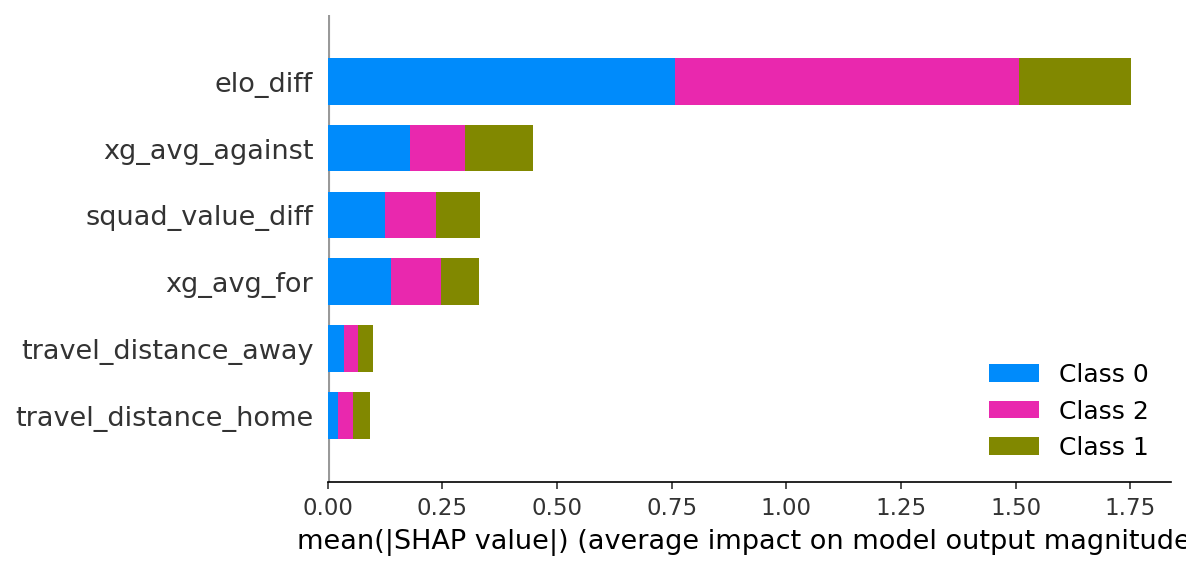
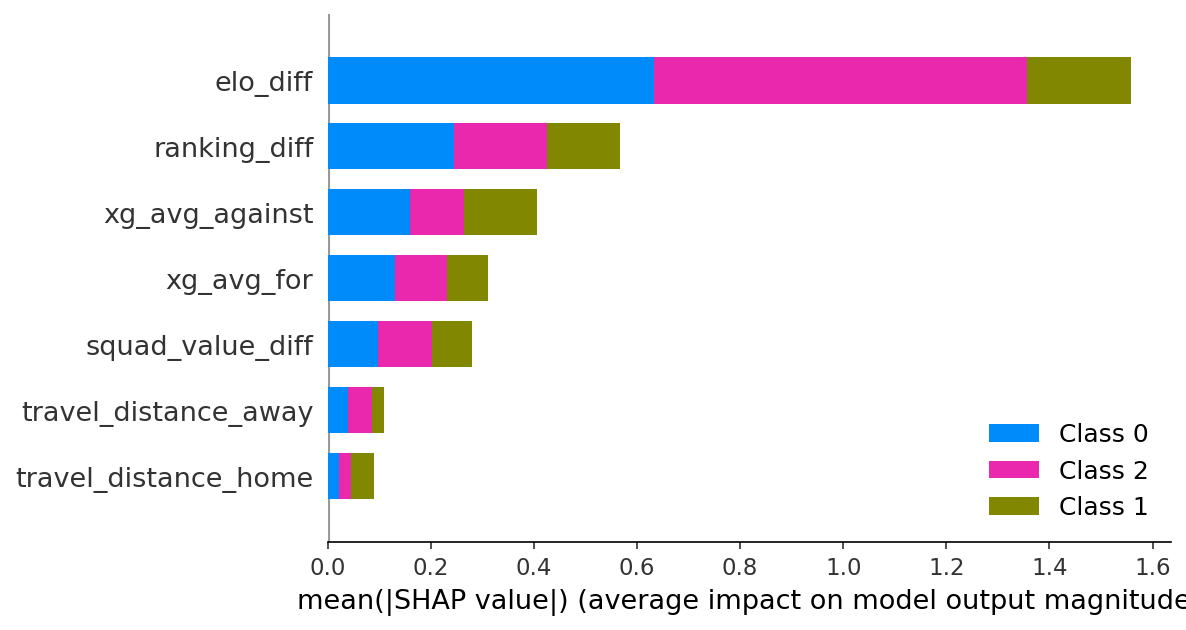
feat: new ranking_diff feature and datasets changes

Changed region(s): [[0.0, 0.0895, 0.9671, 0.8053], [0.2496, 0.6263, 1.0, 0.9842]]

diff --git a/repository/src/models/evaluate.py b/repository/src/models/evaluate.py
@@ -22,6 +22,7 @@ FEATURE_COLS = [
     "xg_avg_against",
     "travel_distance_home",
     "travel_distance_away",
+    "ranking_diff",
 ]
 
 CLASS_NAMES = {0: "Away Win", 1: "Draw", 2: "Home Win"}
@@ -130,21 +131,47 @@ def shap_analysis(model, X_train: np.ndarray, feature_names: list[str] | None = 
 
 
 def validate_wc2022(
-    matches_df: pd.DataFrame,
+    wc_matches_df: pd.DataFrame | None,
     features_df: pd.DataFrame,
     model,
 ) -> pd.DataFrame:
     """
-    Validación histórica: evalúa el modelo sobre los partidos del Mundial 2022
-    usando solo datos de entrenamiento previos a 2022.
+    Validación histórica: evalúa el modelo sobre los partidos del Mundial 2022.
 
-    Devuelve DataFrame con [home_team, away_team, pred_class, true_class, correct].
+    Si wc_matches_df no es None: hace inner join exacto (date, home_team, away_team)
+    para aislar los partidos reales del WC 2022 dentro de features_df, descartando
+    amistosos, clasificatorias y otras competiciones del mismo año.
+
+    Uso recomendado en __main__:
+        all_matches = load_international_results()
+        wc22_actual = all_matches[
+            (all_matches["tournament"] == "FIFA World Cup")
+            & (all_matches["date"].astype(str).str.startswith("2022"))
+        ]
+        validate_wc2022(wc22_actual, df, model)
+
+    Si wc_matches_df es None: fallback a filtrar todos los partidos del año 2022.
+
+    Devuelve DataFrame con [date, home_team, away_team, pred_class, true_class,
+    correct, confidence].
     """
-    # Filtra partidos de 2022 que sean del Mundial (o clasificatorias recientes).
-    # features_df no contiene columna tournament, así que usamos el año como proxy;
-    # la validación histórica toma todos los partidos del año 2022 del dataset filtrado.
-    date_mask = features_df["date"].astype(str).str.startswith("2022")
-    wc22 = features_df[date_mask].copy()
+    if wc_matches_df is not None and not wc_matches_df.empty:
+        wc22_raw = wc_matches_df[
+            wc_matches_df["date"].astype(str).str.startswith("2022")
+        ][["date", "home_team", "away_team"]].copy()
+        wc22_raw["_date_str"] = wc22_raw["date"].astype(str).str[:10]
+        features_copy = features_df.copy()
+        features_copy["_date_str"] = features_copy["date"].astype(str).str[:10]
+        wc22 = features_copy.merge(
+            wc22_raw[["_date_str", "home_team", "away_team"]],
+            on=["_date_str", "home_team", "away_team"],
+            how="inner",
+        ).drop(columns="_date_str")
+        print(f"  Partidos WC 2022 encontrados por join exacto: {len(wc22)}")
+    else:
+        date_mask = features_df["date"].astype(str).str.startswith("2022")
+        wc22 = features_df[date_mask].copy()
+        print(f"  Partidos 2022 (fallback por año): {len(wc22)}")
 
     if wc22.empty:
         print("No hay datos del año 2022 en el dataset de features.")
@@ -198,5 +225,15 @@ if __name__ == "__main__":
     shap_analysis(xgb_raw, X[:split])
 
     print("\n=== Validación WC2022 ===")
-    wc22_results = validate_wc2022(None, df, models["XGBoost"])
+    # Carga los 64 partidos reales del Mundial 2022 desde international_results
+    # (filtrado por tournament="FIFA World Cup" + año 2022) para hacer join exacto.
+    # wc_matches_1974_2022.csv tiene datos incorrectos para 2022, no se usa aquí.
+    from src.data.data_loader import load_international_results
+    all_matches = load_international_results()
+    wc22_actual = all_matches[
+        (all_matches["tournament"] == "FIFA World Cup")
+        & (all_matches["date"].astype(str).str.startswith("2022"))
+    ].copy()
+    print(f"  Partidos del Mundial 2022 (fuente: international_results): {len(wc22_actual)}")
+    wc22_results = validate_wc2022(wc22_actual, df, models["XGBoost"])
     print(wc22_results.head(10).to_string(index=False))

diff --git a/repository/src/data/data_loader.py b/repository/src/data/data_loader.py
@@ -3,6 +3,7 @@ Carga y limpieza de datasets históricos de fútbol internacional.
 Fuentes: martj42/international_results (GitHub), Kaggle WC datasets, openfootball/worldcup.
 """
 
+import bisect
 import pandas as pd
 from pathlib import Path
 
@@ -55,7 +56,7 @@ RELEVANT_TOURNAMENTS = {
 
 
 def standardize_team_names(df: pd.DataFrame) -> pd.DataFrame:
-    for col in ("home_team", "away_team"):
+    for col in ("home_team", "away_team", "team"):
         if col in df.columns:
             df[col] = df[col].replace(TEAM_NAME_ALIASES)
     return df
@@ -99,12 +100,59 @@ def load_fifa_ranking(path: str | Path | None = None) -> pd.DataFrame:
     """
     Lee el dataset FIFA World Ranking 1993-2023 de Kaggle.
     Descarga manual requerida: guardar en data/raw/fifa_ranking.csv
+
+    Devuelve DataFrame con columnas: team, rank, total_points, rank_date.
+    Renombra 'country_full' → 'team' y aplica TEAM_NAME_ALIASES.
     """
     if path is None:
         path = RAW_DIR / "fifa_ranking.csv"
-    df = pd.read_csv(path, parse_dates=["rank_date"] if "rank_date" in pd.read_csv(path, nrows=0).columns else False)
-    df = standardize_team_names(df)
-    return df
+    df = pd.read_csv(path)
+    df["rank_date"] = pd.to_datetime(df["rank_date"])
+    df = df.rename(columns={"country_full": "team"})
+    df = standardize_team_names(df)          # ahora actúa sobre columna "team"
+    return df[["team", "rank", "total_points", "rank_date"]]
+
+
+def build_ranking_dict(ranking_df: pd.DataFrame) -> dict[str, list[tuple]]:
+    """
+    Pre-computa {team: [(rank_date, rank), ...]} ordenado por fecha para
+    lookups O(log n) con bisect_right.
+
+    Parámetros
+    ----------
+    ranking_df : salida de load_fifa_ranking() con columnas [team, rank, rank_date]
+    """
+    result: dict[str, list[tuple]] = {}
+    for team, grp in ranking_df.groupby("team"):
+        sorted_grp = grp.dropna(subset=["rank"]).sort_values("rank_date")
+        if sorted_grp.empty:
+            continue
+        result[team] = list(zip(sorted_grp["rank_date"], sorted_grp["rank"].astype(int)))
+    return result
+
+
+def get_ranking_at_date(
+    ranking_dict: dict,
+    team: str,
+    date: pd.Timestamp,
+    default_rank: int = 78,
+) -> int:
+    """
+    Devuelve el ranking FIFA (posición ordinal) más reciente anterior o igual a `date`.
+
+    Parámetros
+    ----------
+    ranking_dict : salida de build_ranking_dict()
+    team         : nombre canónico del equipo
+    date         : fecha del partido
+    default_rank : rank por defecto si no hay datos (78 ≈ mediana de 156 equipos)
+    """
+    entries = ranking_dict.get(team, [])
+    if not entries:
+        return default_rank
+    # bisect_right sobre tuplas (rank_date, inf) devuelve el primer índice > date
+    idx = bisect.bisect_right(entries, (date, float("inf"))) - 1
+    return entries[idx][1] if idx >= 0 else default_rank
 
 
 def load_wc2026_fixture(path: str | Path | None = None) -> pd.DataFrame:

diff --git a/repository/src/features/features.py b/repository/src/features/features.py
@@ -1,7 +1,7 @@
 """
 Pipeline de ingeniería de características.
-Combina ELO, time decay, valor de plantilla, xG y distancia geográfica
-en un único DataFrame listo para entrenamiento.
+Combina ELO, time decay, valor de plantilla, xG, distancia geográfica
+y ranking FIFA en un único DataFrame listo para entrenamiento.
 """
 
 import sys
@@ -93,6 +93,7 @@ def build_match_features(
     matches_df: pd.DataFrame,
     xg_df: pd.DataFrame | None = None,
     squad_df: pd.DataFrame | None = None,
+    ranking_df: pd.DataFrame | None = None,
     lambda_decay: float = 0.002,
     year_cutoff: int = 1993,
 ) -> pd.DataFrame:
@@ -101,7 +102,7 @@ def build_match_features(
 
     Columnas de salida:
       elo_diff, squad_value_diff (log), xg_avg_for, xg_avg_against,
-      travel_distance_home, travel_distance_away, time_weight, target
+      travel_distance_home, travel_distance_away, ranking_diff, time_weight, target
 
     Parámetros
     ----------
@@ -109,6 +110,8 @@ def build_match_features(
                    home_score, away_score, tournament)
     xg_df        : xG promedio por equipo (team, xg_for, xg_against)
     squad_df     : valor de plantilla (team, squad_value_eur)
+    ranking_df   : ranking FIFA histórico; salida de load_fifa_ranking()
+                   (team, rank, rank_date). Si None, ranking_diff = 0.
     lambda_decay : tasa de decaimiento temporal
     year_cutoff  : año mínimo de partidos a incluir
     """
@@ -161,6 +164,20 @@ def build_match_features(
     else:
         df["squad_value_diff"] = 0.0
 
+    if ranking_df is not None and not ranking_df.empty:
+        from src.data.data_loader import build_ranking_dict, get_ranking_at_date
+        ranking_dict = build_ranking_dict(ranking_df)
+
+        def _rank_diff(row):
+            h = get_ranking_at_date(ranking_dict, row["home_team"], row["date"])
+            a = get_ranking_at_date(ranking_dict, row["away_team"], row["date"])
+            return a - h   # positivo = local mejor rankeado (menor número = mejor)
+
+        print("Calculando ranking_diff...")
+        df["ranking_diff"] = df.apply(_rank_diff, axis=1)
+    else:
+        df["ranking_diff"] = 0.0
+
     print("Calculando distancias de viaje...")
     coords_cache: dict = {}
     all_teams = set(df["home_team"].unique()) | set(df["away_team"].unique())
@@ -181,6 +198,7 @@ def build_match_features(
         "elo_diff", "squad_value_diff",
         "xg_avg_for", "xg_avg_against",
         "travel_distance_home", "travel_distance_away",
+        "ranking_diff",
         "time_weight", "target",
     ]
     result = df[[c for c in feature_cols if c in df.columns]]
@@ -191,11 +209,12 @@ def build_team_features_for_simulation(
     matches_df: pd.DataFrame,
     xg_df: pd.DataFrame | None = None,
     squad_df: pd.DataFrame | None = None,
+    ranking_df: pd.DataFrame | None = None,
     teams: list[str] | None = None,
 ) -> pd.DataFrame:
     """
     Builds a per-team feature row for the Monte Carlo simulation.
-    Columns: team, elo, squad_value_eur, xg_for, xg_against, travel_distance
+    Columns: team, elo, squad_value_eur, xg_for, xg_against, travel_distance, rank
     """
     matches_df = matches_df.copy()
     matches_df["date"] = pd.to_datetime(matches_df["date"])
@@ -223,6 +242,14 @@ def build_team_features_for_simulation(
         else {}
     )
 
+    # Ranking FIFA: usar la posición más reciente disponible (hasta fecha WC kickoff)
+    if ranking_df is not None and not ranking_df.empty:
+        from src.data.data_loader import build_ranking_dict, get_ranking_at_date
+        ranking_dict = build_ranking_dict(ranking_df)
+        get_rank = lambda team: get_ranking_at_date(ranking_dict, team, ref_date)
+    else:
+        get_rank = lambda team: 78  # mediana de 156 equipos
+
     coords_cache: dict = {}
     records = []
     for team in all_teams:
@@ -233,6 +260,7 @@ def build_team_features_for_simulation(
             "xg_for": xg_for_map.get(team, 1.2),
             "xg_against": xg_against_map.get(team, 1.2),
             "travel_distance": compute_travel_distance(team, coords_cache),
+            "rank": get_rank(team),
         })
 
     return pd.DataFrame(records)
@@ -246,7 +274,9 @@ def save_features(df: pd.DataFrame, filename: str = "features.csv") -> Path:
 
 
 if __name__ == "__main__":
-    from src.data.data_loader import load_international_results, filter_relevant_matches
+    from src.data.data_loader import (
+        load_international_results, filter_relevant_matches, load_fifa_ranking,
+    )
     from src.data.scraper import get_statsbomb_xg_by_team, get_squad_values
 
     print("Cargando datos históricos...")
@@ -255,9 +285,14 @@ if __name__ == "__main__":
 
     xg_df = get_statsbomb_xg_by_team()
     squad_df = get_squad_values()
+    ranking_df = load_fifa_ranking()
+    print(f"  Ranking FIFA cargado: {len(ranking_df):,} filas, "
+          f"{ranking_df['team'].nunique()} equipos únicos")
 
     print("Construyendo features...")
-    features = build_match_features(matches, xg_df=xg_df, squad_df=squad_df)
+    features = build_match_features(
+        matches, xg_df=xg_df, squad_df=squad_df, ranking_df=ranking_df,
+    )
     print(f"  Partidos con features: {len(features):,}")
     print(f"  Distribución del target:\n{features['target'].value_counts()}")
     save_features(features)
@@ -265,6 +300,8 @@ if __name__ == "__main__":
     from src.simulation.tournament import GROUPS_2026
     wc_teams = [t for ts in GROUPS_2026.values() for t in ts]
     print("Construyendo team_features para simulación...")
-    team_feats = build_team_features_for_simulation(matches, xg_df=xg_df, squad_df=squad_df, teams=wc_teams)
+    team_feats = build_team_features_for_simulation(
+        matches, xg_df=xg_df, squad_df=squad_df, ranking_df=ranking_df, teams=wc_teams,
+    )
     save_features(team_feats, "team_features.csv")
     print(team_feats.to_string(index=False))

diff --git a/repository/src/simulation/tournament.py b/repository/src/simulation/tournament.py
@@ -6,22 +6,27 @@ Llaves eliminatorias de 32 hasta la final.
 
 import numpy as np
 import pandas as pd
+from pathlib import Path
 from itertools import combinations
 
-GROUPS_2026: dict[str, list[str]] = {
-    "A": ["Mexico", "South Africa", "South Korea", "Czech Republic"],
-    "B": ["Canada", "Bosnia & Herzegovina", "Qatar", "Switzerland"],
-    "C": ["Brazil", "Morocco", "Haiti", "Scotland"],
-    "D": ["United States", "Paraguay", "Australia", "Turkey"],
-    "E": ["Germany", "Curacao", "Ivory Coast", "Ecuador"],
-    "F": ["Netherlands", "Japan", "Sweden", "Tunisia"],
-    "G": ["Belgium", "Egypt", "Iran", "New Zealand"],
-    "H": ["Spain", "Cape Verde", "Saudi Arabia", "Uruguay"],
-    "I": ["France", "Senegal", "Iraq", "Norway"],
-    "J": ["Argentina", "Algeria", "Austria", "Jordan"],
-    "K": ["Portugal", "DR Congo", "Uzbekistan", "Colombia"],
-    "L": ["England", "Croatia", "Ghana", "Panama"],
-}
+_FIXTURE_CSV = Path(__file__).parents[2] / "data" / "raw" / "wc2026_fixture.csv"
+
+
+def _load_groups(fixture_path: Path) -> dict[str, list[str]]:
+    """
+    Carga los grupos del fixture CSV y aplica estandarización de nombres de equipo.
+    Los nombres pasan por TEAM_NAME_ALIASES ("USA" → "United States", etc.).
+    Para actualizar el torneo: reemplaza data/raw/wc2026_fixture.csv y re-ejecuta.
+    """
+    from src.data.data_loader import load_wc2026_fixture
+    df = load_wc2026_fixture(fixture_path)
+    groups: dict[str, list[str]] = {}
+    for _, row in df.iterrows():
+        groups.setdefault(row["group"], []).append(row["team"])
+    return groups
+
+
+GROUPS_2026: dict[str, list[str]] = _load_groups(_FIXTURE_CSV)
 
 ALL_TEAMS: list[str] = [team for teams in GROUPS_2026.values() for team in teams]
 

diff --git a/repository/src/simulation/simulate.py b/repository/src/simulation/simulate.py
@@ -46,12 +46,14 @@ def build_predict_fn(model, team_features: pd.DataFrame):
             h.get("xg_against", 1.2) - a.get("xg_against", 1.2),
             h.get("travel_distance", 5000.0),
             a.get("travel_distance", 5000.0),
+            a.get("rank", 78) - h.get("rank", 78),   # ranking_diff: positivo = local mejor rankeado
         ])
 
     # Usar DataFrame con nombres de columna para evitar el UserWarning de LightGBM
     # "X does not have valid feature names, but LGBMClassifier was fitted with feature names"
     _FEATURE_COLS = ["elo_diff", "squad_value_diff", "xg_avg_for",
-                     "xg_avg_against", "travel_distance_home", "travel_distance_away"]
+                     "xg_avg_against", "travel_distance_home", "travel_distance_away",
+                     "ranking_diff"]
     X_all = pd.DataFrame(rows, columns=_FEATURE_COLS).astype(np.float32)
 
     # Model returns [p_away, p_draw, p_home] (class order 0,1,2).

diff --git a/repository/src/models/train.py b/repository/src/models/train.py
@@ -35,6 +35,7 @@ FEATURE_COLS = [
     "xg_avg_against",
     "travel_distance_home",
     "travel_distance_away",
+    "ranking_diff",
 ]
 
 